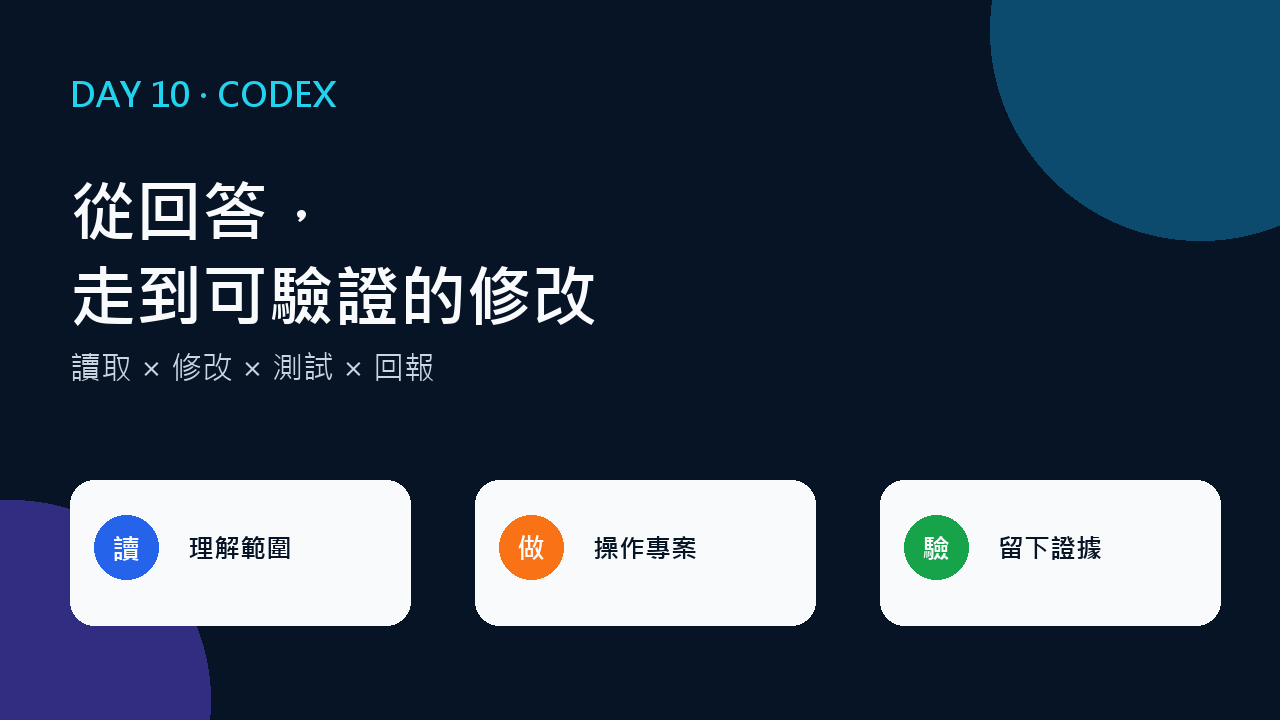
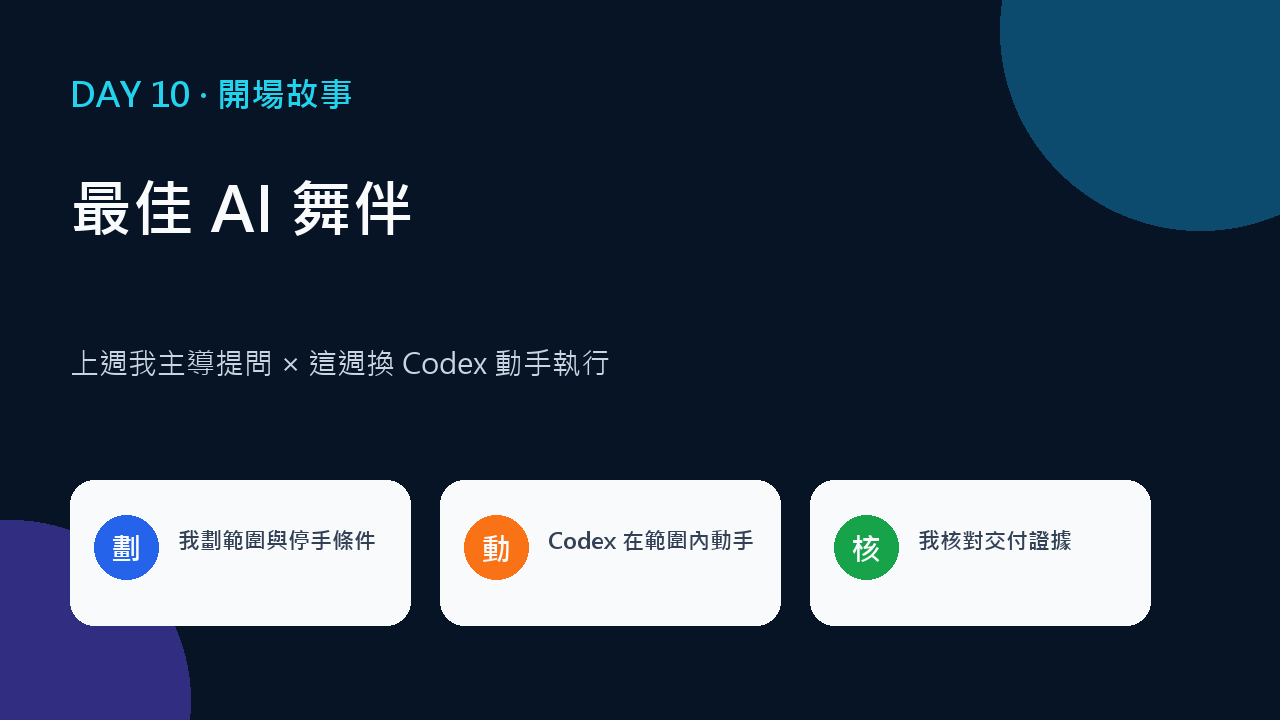
refactor(topic): change topic

diff --git a/DAY30-Whats-Next.md b/DAY30-Whats-Next.md
@@ -1,0 +1,80 @@
+# Day 30｜What's next?
+
+![Day 30 封面：從一張基準線卡片，到一套能重跑的方法](https://raw.githubusercontent.com/a26703248/ithome-2026-codex/main/%E5%9C%96%E6%AA%94/Day30/day30-01-cover.png)
+
+Day 29 用一份配對前後測，把「感覺變快了」換成可追溯的數字：速度提升四成，複核負擔、修改否決比例、引用錯誤數卻同時變差。我翻回 Day 01，那張基準線卡片其實只留了任務與驗收條件、原本完成時間、人工修改或退回次數這幾個開放欄位，難度自選、樣本數是 1，本來就不是能拿來做統計的資料；卡片背後真正想確認的，是那句「ChatGPT 與 Codex 應該放在開發流程的哪個位置，才能節省時間，又保留人工決策」。
+
+30 天後我能給的答案精確一點，也保守一點：ChatGPT 加速的是釐清、比較與草擬；Codex 加速的是定位、修改與跑測試；兩者都不會替我承擔判斷責任，證據齊不齊、範圍準不準，還是要靠交辦與驗收時的人工設計。最出乎意料的不是工具能做到什麼，是 Day 29 那組配對資料：速度確實變快，複核負擔、修改否決比例、引用錯誤數卻同時變差——「效率提升」只看單一指標，很容易得出站不住腳的結論。
+
+![30 天五個階段各自留下的關鍵收穫](https://raw.githubusercontent.com/a26703248/ithome-2026-codex/main/%E5%9C%96%E6%AA%94/Day30/day30-02-five-stage-overview.png)
+
+## 第一個收穫：從問答案改成設計工作
+
+Day 07 那次查詢契約是這系列裡我引用最多次的例子：我沒有讓 ChatGPT 自由發揮，而是先列出決策白名單，限定它只能在 `DECISIONS` 範圍內整理業務契約，OpenAPI 必填欄位另外取自固定的 `DOCUMENT_TEMPLATE`。品質改善不是來自提示詞變長，而是未知決策被攤開，有地方可以被否決。Day 13 那次「日期相等被誤判成迄日較早」的修正也是同一件事：先給確切呼叫、現況與可改範圍，Codex 才定位得到 `ReportRangeService.java:14` 那一行條件，不是亂猜。
+
+## 第二個收穫：讓代理執行，但不外包責任
+
+Day 11 到 Day 16 走過的「讀 → 改 → 測 → 回報」，讓我比較有把握區分哪些工作可以放心交給工具，哪些不行：
+
+| 可以交給工具加速 | 必須由人負責 | 本系列證據 |
+|---|---|---|
+| 定位問題根因、產生候選修改 | 判斷業務規則是否正確 | Day 13 日期條件修正、Day 07 決策白名單 |
+| 執行指定測試與完整測試指令 | 核准資料存取與可改動範圍 | Day 15 權限邊界、Day 27 存取控制程式 |
+| 整理 diff、草擬 commit／PR 說明 | 決定是否合併、是否上線 | Day 16 分支與 PR 草稿流程 |
+
+![工具可以加速的工作，和必須留給人判斷的工作，中間那條線](https://raw.githubusercontent.com/a26703248/ithome-2026-codex/main/%E5%9C%96%E6%AA%94/Day30/day30-03-tool-vs-human.png)
+
+Day 12 與 Day 18 補上同一塊拼圖：`AGENTS.md` 寫下不能為了修缺陷改測試的規則，任務契約再明訂允許修改與禁止修改的檔案清單。Codex 不是惡意「順手」擴大範圍，是交辦沒寫清楚邊界；diff 檔案數對不上預期，是目前我找到最快的訊號，不是唯一的訊號。
+
+## 第三個收穫：把個人技巧變成團隊能力
+
+| 團隊落地程度 | 對應內容 | 我的判斷 |
+|---|---|---|
+| 可立即導入 | Day 26 提示詞資產化：用途、輸入、禁止事項、固定輸出、驗收、維護人六欄 | 缺一項就只是個人技巧，補齊才能重跑 |
+| 需利害關係人確認 | Day 27 資料分級與六面向治理骨架 | 分級標準本身還沒訂，不能由工程師自行判斷能不能碰 |
+| 暫時不適合 | 未經覆核的輸出直接合併、拿真實客戶資料當測試素材 | Day 27 治理骨架要補的缺口，正是這條線沒畫清楚 |
+
+## 用 Day 29 的數據檢查是否真的進步
+
+Day 01 那張基準線卡片和 Day 29 的配對前後測，其實不能直接放進同一張表比較——任務範圍、驗收條件、樣本數都不一樣，硬湊百分比只會做出一個好看卻站不住腳的數字。真正能對照的，是 Day 29 用同一套驗收條件、各 8 筆紀錄跑出的結果：
+
+| 指標 | 基準線（人工） | AI 協作 | 差異 |
+|---|---|---|---|
+| 平均生成到定稿時間 | 104.0 分鐘 | 62.0 分鐘 | -40% |
+| 平均複核時間 | 21.1 分鐘 | 28.5 分鐘 | +7.4 分鐘 |
+| 大幅修改或否決比例 | 25.0% | 37.5% | +12.5 個百分點 |
+| 平均引用錯誤數 | 0.25 | 1.00 | 約 4 倍 |
+
+![Day 01 基準線卡片與 Day 29 配對資料的差異：範圍、樣本數都不同，不能硬比](https://raw.githubusercontent.com/a26703248/ithome-2026-codex/main/%E5%9C%96%E6%AA%94/Day30/day30-04-day01-day29-data.png)
+
+速度變快四成，複核負擔、修改否決比例、引用錯誤數卻同時變差，落在 Day 29 定義的「只提升速度」那格，該做的是補強複核驗收，不是急著擴大試用。兩批各 8 筆屬示範規模，不足以做統計顯著性檢定，這個結論只支持 Day 29 那個案例，不能直接推論到整個團隊或其他任務類型。
+
+## 邊界會一直移動，但誰負責沒有變
+
+三十天走下來，ChatGPT 與 Codex 能碰的範圍一直在擴大：從整理文字、比較方案，到直接讀寫專案、執行測試、開分支。往前看，context（把任務背景交代清楚）、skill（把驗證過的做法收進可重跑的技能）、Agent（讓代理在更大授權範圍內連續行動）這三層能力還會繼續往前推進，讀者不必等它們穩定下來才開始用，但每往前一步，都該搭配對應的核對習慣——context 給得越完整，越要盯緊機密與範圍；skill 收得越多，越要定期重跑驗證，不能收進去就不再檢查；Agent 授權得越大，越要留住能追回的證據鏈，而不是只看最後一句「已完成」。這三層要怎麼取捨、什麼時候該往前推、什麼時候該先踩煞車，答案會隨著工具能力持續改變，沒有一次寫定的公式。
+
+會移動的是工具能碰到的範圍，不會移動的是目標、限制、驗收與是否上線這幾件事，仍然由人拍板。
+
+![邊界會一直移動：AI 擅長的部分持續擴張，人要顧好的判斷責任沒有變](https://raw.githubusercontent.com/a26703248/ithome-2026-codex/main/%E5%9C%96%E6%AA%94/Day30/day30-06-boundary-and-next.png)
+
+## 給讀者的下一步行動
+
+![個人今天、專案本週、團隊本月三層行動路線圖](https://raw.githubusercontent.com/a26703248/ithome-2026-codex/main/%E5%9C%96%E6%AA%94/Day30/day30-05-action-roadmap.png)
+
+1. 個人今天可以做：挑一個能寫出可重現失敗案例的小型 Java 缺陷，比照 Day 13 的做法，先補一項會失敗的測試，再讓工具修正。
+2. 專案本週可以做：補一份最小的 `AGENTS.md`，並在交辦模板加一欄「允許改動的檔案清單」，對應 Day 12 與 Day 18 學到的教訓。
+3. 團隊本月可以做：選一項風險較低的用途，比照 Day 26 的 SOP 與 Day 27 的盤點表，先跑一輪有負責人、有驗收條件的試辦，不要直接開放給所有人用。
+
+## 仍然沒有解決的問題
+
+第一，ChatGPT 與 Codex 的介面、方案與模型版本持續更新，Day 03 寫的最小可用環境，發文當下就得重新核對官方文件，這件事沒有終點。第二，Day 29 的樣本數只有 8，長期缺陷率、返工率是否真的下降，要更多配對批次累積下去才禁得起檢驗；下一步是把方法留下來，按季重跑並累積樣本。第三，Day 27 的存取控制程式碼證明「規則可以寫進系統」，但沒人追蹤執行率就形同沒做；下一步靠稽核紀錄，由治理負責人按季稽核，不是靠工程師自律。
+
+## 系列結語
+
+三十天下來，我沒有找到一個可以替我承擔判斷的工具。我找到的是一套更清楚交代工作、要求證據、保留人工判斷的方法——決策白名單、issue 補成可重跑的修正說明、diff 對照允許清單、指標配上品質護欄。這套方法比任何一次「AI 很強大」的印象都更值得帶進明天的開發工作。謝謝讀完這三十篇的你，如果你也開始在自己的專案上試著寫一份 `AGENTS.md`，或是把提示詞的六個欄位填滿再送出，這個系列就達到它原本想做的事。
+
+## 參考資料
+
+- 本系列 Day 01–29 文章、程式碼與驗證紀錄
+- `案例/資料工作區空間-需求書.md`、`案例/資料匯入貼標程式-需求書.md`、`案例/日報服務-需求書.md`、`案例/AI輔助生成系統-需求書.md`
+- 發布日再次查證的 OpenAI 官方 ChatGPT 與 Codex 文件

diff --git a/DAY17-遺留程式碼的原罪.md b/DAY17-遺留程式碼的原罪.md
@@ -1,0 +1,35 @@
+# Day 17｜遺留程式碼的原罪
+
+![Day 17 封面：接手兩年前的決定，不是接手一張白紙](https://raw.githubusercontent.com/a26703248/ithome-2026-codex/main/%E5%9C%96%E6%AA%94/Day17/day17-01-cover.png)
+
+Day 16 我還在替一個乾淨的新專案整理分支、commit 與 PR 草稿。這週接手的「日報服務」完全是另一回事：已經上線兩年，客戶訂閱後每天早上八點收到一封可攜式文件格式（Portable Document Format，PDF）報表信，中間換過不只一位維護者。我打開專案的第一個動作不是寫程式，是先搞清楚「現在到底長什麼樣子」——結果越看越心虛。
+
+## 第一印象：能動，不代表看得懂
+
+排程與報表產製邏輯寫在同一個服務類別裡，讀資料、算數值、排版、寄信全部擠在一條呼叫鏈上，沒有任何一段可以單獨抽出來測試。PDF 是三年前導入的套件，樣式靠字串拼接組出來，想加一個欄位就得在一大串字串運算裡找位置插入。自動化測試的覆蓋範圍也很有限：只有數值計算的部分邏輯被寫進單元測試，排程什麼時候被觸發、信件內容怎麼組裝、檔案怎麼產生出來，這些完全得靠工程師事後盯著正式環境的信箱，用肉眼確認信有沒有寄到。專案說明檔停留在舊版的啟動參數，跟目前實際的部署方式已經對不上。
+
+![排程、產製、寄信擠在同一條呼叫鏈上](https://raw.githubusercontent.com/a26703248/ithome-2026-codex/main/%E5%9C%96%E6%AA%94/Day17/day17-02-coupling-snapshot.png)
+
+## 沒人寫下來的問題，不代表不存在
+
+現況說明裡還藏著兩個沒人正式處理的舊帳。其一，隨著訂閱的客戶越來越多，系統偶爾會撐到接近發送時間才動手產製報表，結果就是有些信箱收到信的時間比預期晚。其二，套件供應商先前發過一則更新公告，內容跟系統目前使用的版本有沒有關係，到現在都還沒有人去查證。這兩件事沒有工單、沒有負責人，純粹是「維運多年下來大家都知道，但沒人排進行事曆」的那種問題。遺留程式碼最危險的地方，往往不是寫得爛的那部分，而是這種沒人正式承認、卻確實存在的空白。
+
+![沒有工單的舊帳，一樣是要面對的風險](https://raw.githubusercontent.com/a26703248/ithome-2026-codex/main/%E5%9C%96%E6%AA%94/Day17/day17-03-known-unknowns.png)
+
+## 業務端這時候丟來新需求
+
+就在我還在消化現況的時候，業務端提出新一輪需求：報表頻率從每日擴增為日、週、雙週、月，客戶可以自選 PDF、Word、Excel 三種輸出格式，而且製作時間要提前到發送前一小時開始，不能再卡在發送當下才動手。這句話講起來很順口，落到這套耦合的舊系統裡卻不簡單——排程模組要重新設計觸發邏輯，格式輸出要跟糾纏在一起的 PDF 產製邏輯解耦，數值計算範圍在週、雙週、月報表底下也還沒定義。
+
+![四種頻率與三種格式，六項未定案的技術決策](https://raw.githubusercontent.com/a26703248/ithome-2026-codex/main/%E5%9C%96%E6%AA%94/Day17/day17-04-new-requirements.png)
+
+我沒有立刻動手改程式，也沒有急著把新需求塞進舊架構。接手遺留系統的第一步，是先誠實描述現況與新需求之間的落差，而不是假裝這套系統本來就準備好迎接這些改動。
+
+![先誠實畫出現況與新需求的落差，才有下一步](https://raw.githubusercontent.com/a26703248/ithome-2026-codex/main/%E5%9C%96%E6%AA%94/Day17/day17-05-gap-before-plan.png)
+
+## 小結：先承認落差，再談怎麼補
+
+今天沒有動一行程式碼，只把接手這套日報服務的第一印象、既有現況與新需求之間的落差寫清楚：耦合的呼叫鏈、陳舊的 PDF 套件、偏低的測試覆蓋率、兩筆沒人處理的舊帳，加上四種頻率與三種格式的新要求。Day 18 會把這些落差交給 ChatGPT 先規劃，再由 Codex 接手執行，示範怎麼用任務契約把規劃與動手接起來。
+
+## 參考資料
+
+- [日報服務——需求書（現況＋新增需求）](./%E6%A1%88%E4%BE%8B/%E6%97%A5%E5%A0%B1%E6%9C%8D%E5%8B%99-%E9%9C%80%E6%B1%82%E6%9B%B8.md)

diff --git a/DAY04-先從盤古開天開始說起.md b/DAY04-先從盤古開天開始說起.md
@@ -1,0 +1,35 @@
+# Day 04｜先從盤古開天開始說起
+
+![Day 04 封面：一句話需求，四個未知世界](./%E5%9C%96%E6%AA%94/Day04/day04-01-cover.png)
+
+8 月 5 日，業務與客戶成功團隊送來一份標成「v0．初版待釐清」的文件，主旨是「資料工作區空間」。附件只有一段業務端原話：「客戶可透過自行爬文資料，或是將企業內部資料託管到本平台，選取關注資料後或是每日日報定時匯入等功能，將資料匯入到該工作區空間。」我把這句話讀了三遍，圈出四個名詞——自行爬文資料、企業內部資料託管、選取關注資料、每日日報定時匯入——每一個單獨拿出來都能開一個專案，卻被放進同一句話交件。
+
+## 業務端不是在刁難，是在轉述客戶的原話
+
+我先確認一件事：這份文件不是業務端偷懶，而是如實轉述客戶會議記下的重點。客戶想要的，是把「不論資料從哪裡來，取得後都要自己另外整理才能用」這件事變輕鬆；業務端想要的，是把客戶留在產品裡，之後好加賣加值編輯、協作、匯出。兩邊的目標都合理，只是還沒有人把它翻成「可以估工時、可以驗收」的技術描述。需求書自己也承認這一點：「加值」具體包含哪些編輯能力，只寫了「讓客戶可以編輯」；「每日日報」是既有功能還是新功能，也留白。
+
+![一句需求裡的四個名詞，各自藏著一個專案](./%E5%9C%96%E6%AA%94/Day04/day04-02-four-terms.png)
+
+## 我在草稿上劃出四個問號，而不是四個任務
+
+接到這種文件，最容易犯的錯是急著拆成開發工作單：先做爬文、再做託管、再做匯入、再做編輯。我沒有這樣做，因為每一塊背後都藏著沒回答的問題。自行爬文是客戶自己爬完丟結果進來，還是要我們提供爬蟲服務？企業內部資料託管要接哪種格式、要不要專屬儲存空間？「選取關注資料」是單筆勾選、批次選取，還是條件式訂閱？「每日日報定時匯入」的排程能不能讓客戶自己調，失敗了要怎麼通知？這些問題只要有一題答案不同，底層的資料模型與匯入流程就會長得不一樣。先動工，等於是先賭一個答案。
+
+![四個問號各自牽動不同的技術決策](./%E5%9C%96%E6%AA%94/Day04/day04-03-four-questions.png)
+
+## 把未知留在檯面上，好過假裝看懂
+
+我把這四個問號整理成一張清單，先不寫技術方案，只寫「這裡還不知道什麼」。這不是拖延，是把後續要做的追問排出順序：哪些空白會決定資料庫要不要拆表，哪些空白只影響介面文案，先後順序不一樣，追問的急迫程度也不一樣。需求書裡「權限模型」「資料保留與法遵」這類條目，一旦順序排錯，可能到快上線才發現整個儲存架構要重來。
+
+![把待確認事項按影響範圍排出追問順序](./%E5%9C%96%E6%AA%94/Day04/day04-04-priority-order.png)
+
+這份 v0 需求書會陪著接下來這一週的文章。從明天開始，我會把這些問號一題一題丟給 ChatGPT，但不是求它替我拍板，而是借助它把散落在文件各處的矛盾攤開、把估不出工時的地方標記出來，最後收斂成一份工程團隊真的能動工的技術規格。今天先讓需求書自己攤開所有沒說清楚的地方，把「看起來合理」跟「已經可以驗收」分開，才是收斂的起點。
+
+![這一週的路線：從一句話收斂成可驗收的技術規格](./%E5%9C%96%E6%AA%94/Day04/day04-05-week-roadmap.png)
+
+## 小結：先看懂問題的形狀，再談解法
+
+今天沒有寫一行程式，也沒有問 ChatGPT 任何問題。先把業務端的原話、四個未定義名詞與九項待確認事項攤開，確認自己看懂的是「問題的形狀」，不是「答案的形狀」。Day 05 會把這份 v0 需求書實際丟給 ChatGPT，示範怎麼分輪追問，把模糊需求收斂成可以估工時、可以驗收的技術規格。
+
+## 參考資料
+
+- [資料工作區空間——需求書（v0．初版待釐清）](./%E6%A1%88%E4%BE%8B/%E8%B3%87%E6%96%99%E5%B7%A5%E4%BD%9C%E5%8D%80%E7%A9%BA%E9%96%93-%E9%9C%80%E6%B1%82%E6%9B%B8.md)

diff --git a/DAY10-最佳AI舞伴.md b/DAY10-最佳AI舞伴.md
@@ -1,0 +1,35 @@
+# Day 10｜最佳 AI 舞伴
+
+![Day 10 封面：一支雙人舞，誰在數拍子](https://raw.githubusercontent.com/a26703248/ithome-2026-codex/main/%E5%9C%96%E6%AA%94/Day10/day10-01-cover.png)
+
+Day 09 用 ChatGPT 對一段 Java diff 做完初篩，證據留在測試與人工審查裡，程式本身一行都沒有被它碰過。這週案例換成「資料匯入貼標程式」：資料工程團隊已經把技術規格、資料表與技術棧都定下來，需求書第九節甚至先列出幾筆已知缺陷與待確認事項，等著被排進開發。規格夠清楚，接下來要面對的問題不再是「這句話是什麼意思」，而是「誰要動手把它改掉」。這正是 Codex 要上場的地方。
+
+## 上一週我在主導，這一週換 Codex 動手
+
+上一週我跟 ChatGPT 的關係比較像是我在主導：我決定問什麼、分幾輪問、每輪要哪個層面的答案，ChatGPT 負責把散在對話裡的想法組織成看得懂的段落。它不會自己去改需求書，也不會自己開專案。Codex 不一樣，它能直接讀我的程式碼庫、動手改檔案、跑測試、留下 diff。分工換了，我要練習的動作也跟著換：不是「我問得夠不夠精準」，是「我劃的界線夠不夠清楚」。
+
+![上週由我主導提問，這週換 Codex 主導執行](https://raw.githubusercontent.com/a26703248/ithome-2026-codex/main/%E5%9C%96%E6%AA%94/Day10/day10-02-lead-and-follow.png)
+
+## 協作不是誰聽誰的，是誰在哪一步接手
+
+好的協作不是全程由一方發號施令，而是分段接手，各自在自己擅長的階段負責。我負責定義這批任務的範圍與停手條件——只能改動指定的邏輯，不能動資料庫連線設定，測試沒過就不算完成；Codex 負責在這個範圍內找出缺陷成因、寫修正、跑 `mvn test` 驗證。我退場的時機，是它已經清楚知道邊界在哪之後；我回場的時機，是它交出結果、我要核對證據的時候。這條界線劃得越清楚，中間需要來回確認的次數就越少。
+
+![好的協作是分段接手，不是誰全程主導](https://raw.githubusercontent.com/a26703248/ithome-2026-codex/main/%E5%9C%96%E6%AA%94/Day10/day10-03-handoff-points.png)
+
+## 這一週，會從最基本的動作開始
+
+需求書留給我的不只是一個 bug，還有一整套排程、水位（watermark，記錄上次同步到哪個時間點）、雙資料庫寫入與 upsert 去重的設計。我不會第一天就把整包丟給 Codex，而是從能獨立驗收的最小任務開始：先看懂 Codex 在沙箱環境裡怎麼工作、怎麼讀專案、怎麼回報結果，再逐步把 `AGENTS.md`、issue 描述、測試回報、權限邊界與 Git 工作流一一補齊。任務範圍先小、驗收條件先明確，才有機會在後面幾天把整套需求逐步交接完整，而不是一開始就賭一個看不到底的大任務。
+
+![這週從基本步開始，逐步疊代到完整協作流程](https://raw.githubusercontent.com/a26703248/ithome-2026-codex/main/%E5%9C%96%E6%AA%94/Day10/day10-04-week-progression.png)
+
+我也提醒自己一件事：Codex 動作再流暢，最後要不要把改動合併進主分支，仍然是我的判斷。它能加速的是找出問題、寫修正、跑測試這幾步，不會替我承擔「這個改動能不能上線」的責任。
+
+![這一週要練習的，是分工不是放手](https://raw.githubusercontent.com/a26703248/ithome-2026-codex/main/%E5%9C%96%E6%AA%94/Day10/day10-05-closing.png)
+
+## 小結：先講清楚分工，再談節奏
+
+今天沒有打開 Codex，只先想清楚這週的角色分配：規格清楚的任務交給它動手，範圍與驗收條件仍由我先劃定。Day 11 會實際打開 Codex，用一個具體的缺陷，觀察代理迴圈怎麼從讀取、修改走到留下可驗證的證據。
+
+## 參考資料
+
+- [資料匯入貼標程式——需求書（技術規格・v1）](./%E6%A1%88%E4%BE%8B/%E8%B3%87%E6%96%99%E5%8C%AF%E5%85%A5%E8%B2%BC%E6%A8%99%E7%A8%8B%E5%BC%8F-%E9%9C%80%E6%B1%82%E6%9B%B8.md)
